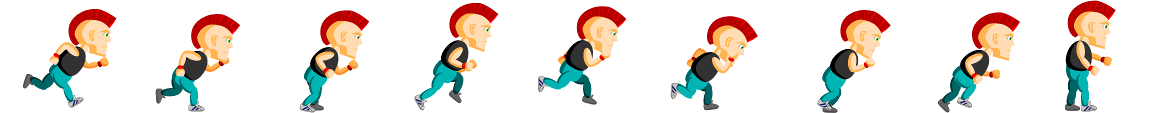
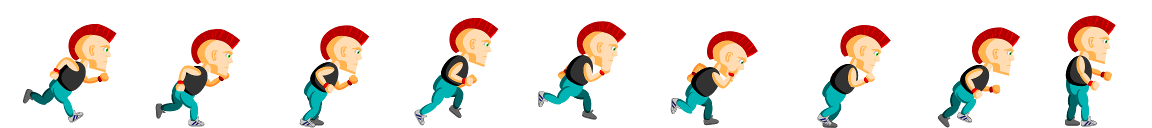
fix

diff --git a/src/app/modules/game/components/main/scenes/init-scene.ts b/src/app/modules/game/components/main/scenes/init-scene.ts
@@ -121,7 +121,7 @@ export class InitScene extends Scene {
     this.load.spritesheet('punk', '/assets/game/main/punk_smaller.png',
       {
         frameWidth: 128,
-        frameHeight: 112
+        frameHeight: 128
       });
     this.loadTilesets();
     this.load.tilemapTiledJSON('map', '/assets/game/main/init.json');

diff --git a/src/app/modules/game/components/main/main.component.ts b/src/app/modules/game/components/main/main.component.ts
@@ -16,7 +16,7 @@ export class MainComponent implements OnInit  {
       type: Phaser.AUTO,
       height: 500,
       width: 1200,
-      scene: [ MainScene,InitScene ],
+      scene: [ InitScene,MainScene ],
       parent: 'gameContainer',
       physics: {
         default: 'arcade',
